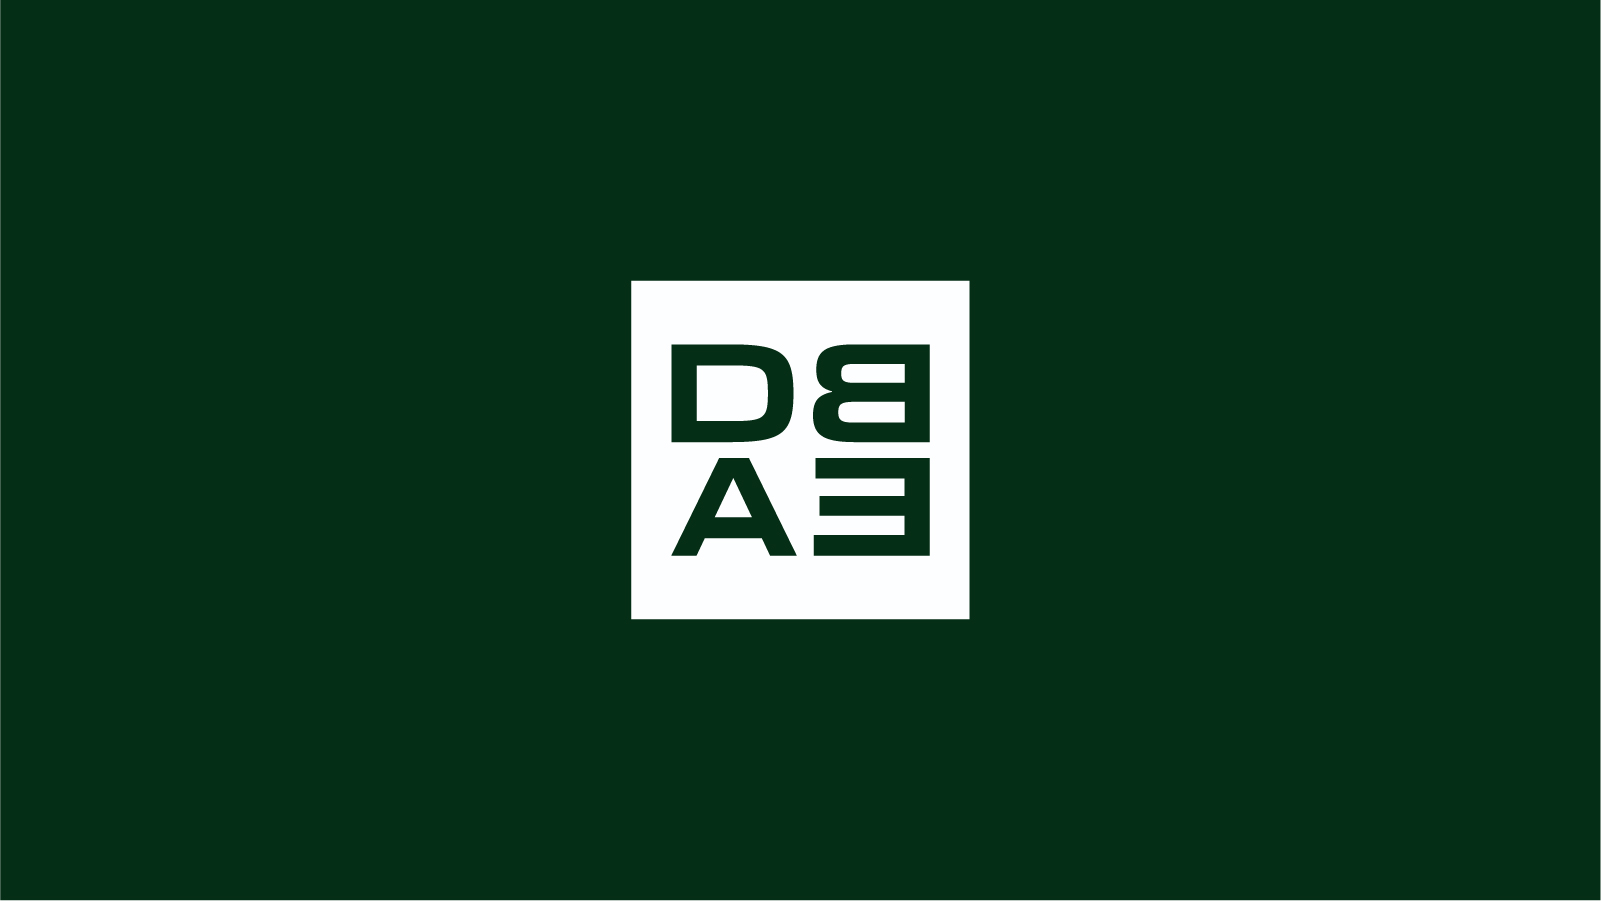
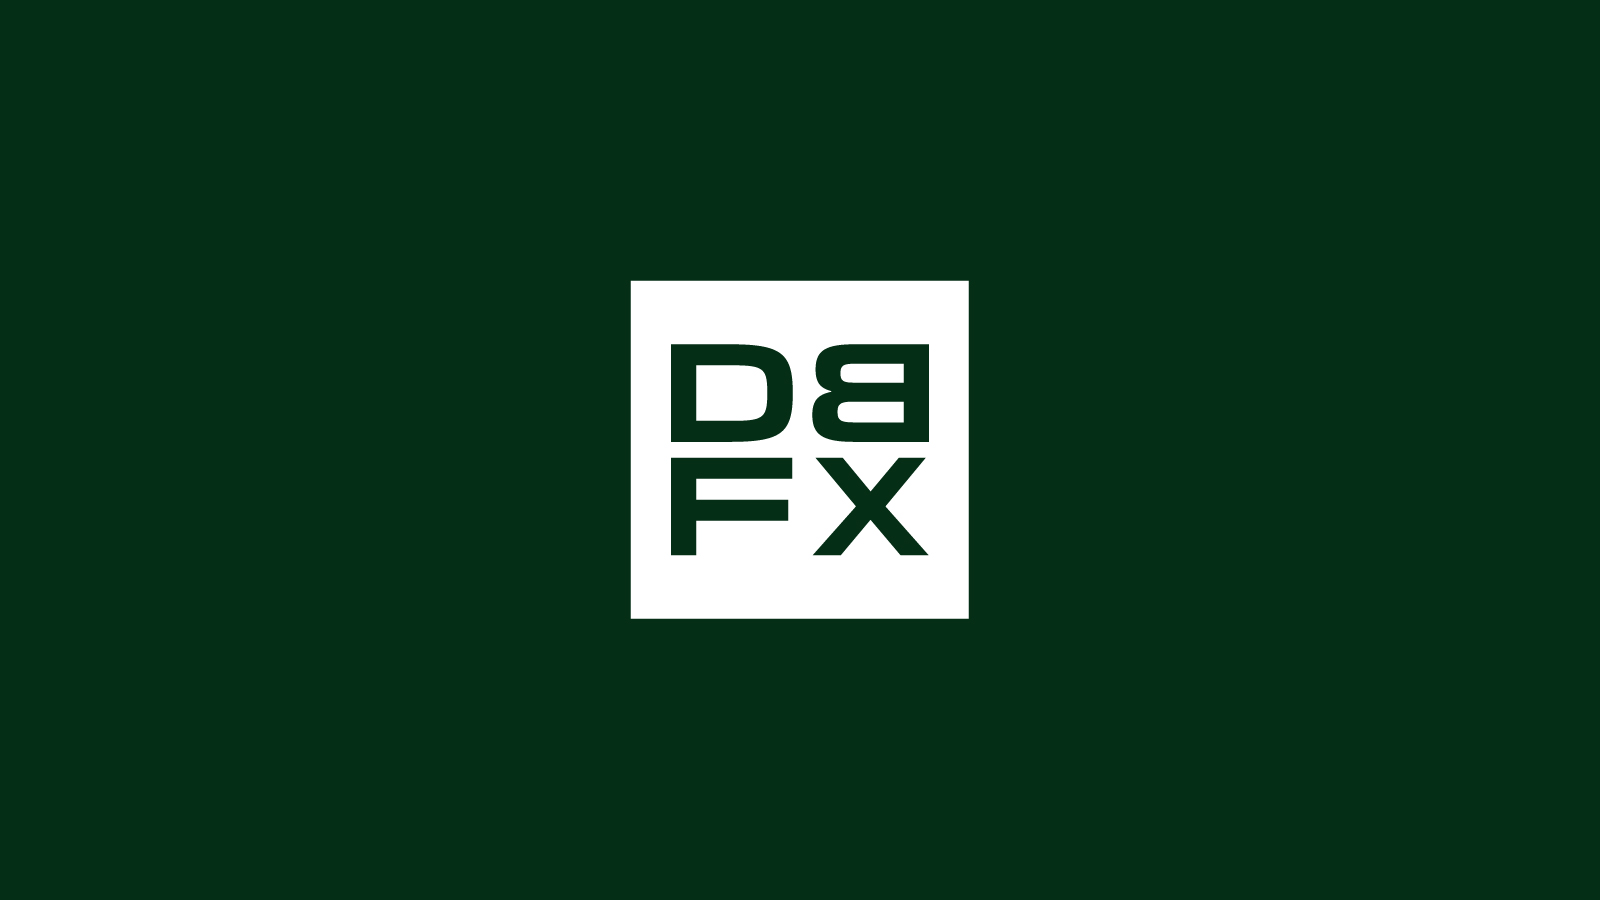
dbae -> dbfx

Changed region(s): [[0.0, 0.9956, 1.0, 1.0], [0.4062, 0.4667, 0.5938, 0.6222]]

diff --git a/storefront/src/app/(main)/page.tsx b/storefront/src/app/(main)/page.tsx
@@ -48,9 +48,9 @@ export default async function Home({
           </picture>
         </div>
       </div>
-      <div className="col-span-2 text-2xl -translate-y-16 md:translate-y-0">
+      <div className="col-span-2 text-xl -translate-y-16 md:translate-y-0">
         <h1
-          className={`${lexend.className} [text-shadow:0_2px_4px_rgba(0,0,0,0.5)]  font-semibold text-6xl  text-shadow-md`}
+          className={`${lexend.className} [text-shadow:0_2px_4px_rgba(0,0,0,0.5)]  font-semibold text-5xl  text-shadow-md`}
         >
           Dearborn Plys
         </h1>

diff --git a/storefront/src/app/layout.tsx b/storefront/src/app/layout.tsx
@@ -25,7 +25,7 @@ export default function RootLayout(props: { children: React.ReactNode }) {
       data-mode="light"
       className={`${vt323.className} tracking-tight bg-green-950`}
     >
-      <meta name="apple-mobile-web-app-title" content="DBAE" />
+      <meta name="apple-mobile-web-app-title" content="DBFX" />
       <meta name="theme-color" content="#052e16" />
       <body className="bg-green-950">
         {/* <audio src="/music.mp3" loop autoPlay className="hidden" /> */}

diff --git a/storefront/src/app/(main)/design/page.tsx b/storefront/src/app/(main)/design/page.tsx
@@ -7,10 +7,7 @@ export const metadata: Metadata = {
 export default function DesignPage() {
   return (
     <div className="flex p-20 flex-col items-center justify-center  text-white gap-4">
-      <img
-        src="https://web.archive.org/web/20090830180618im_/http://www.geocities.com/gspetrenas/construction.gif"
-        alt="Under Construction"
-      />
+      <img src="/construction.gif" alt="Under Construction" />
     </div>
   )
 }

diff --git a/storefront/src/helpers/serverFunctions.ts b/storefront/src/helpers/serverFunctions.ts
@@ -186,7 +186,7 @@ async function sendDiscordNotification(
     }
 
     const payload = {
-      username: "DBAE Repairs",
+      username: "DBFX Repairs",
       avatar_url:
         "https://cdn.jsdelivr.net/npm/emoji-datasource-apple@15.0.1/img/apple/64/1f3b5.png",
       embeds: [embed],

diff --git a/README.md b/README.md
@@ -1,4 +1,6 @@
-# Dearborn Audio Effects
+![DBFX](/storefront/public/dbae-wordmark.svg)
+
+This repository contains a nextjs frontent and a meduas (vite) backend.
 
 # Backend
 
